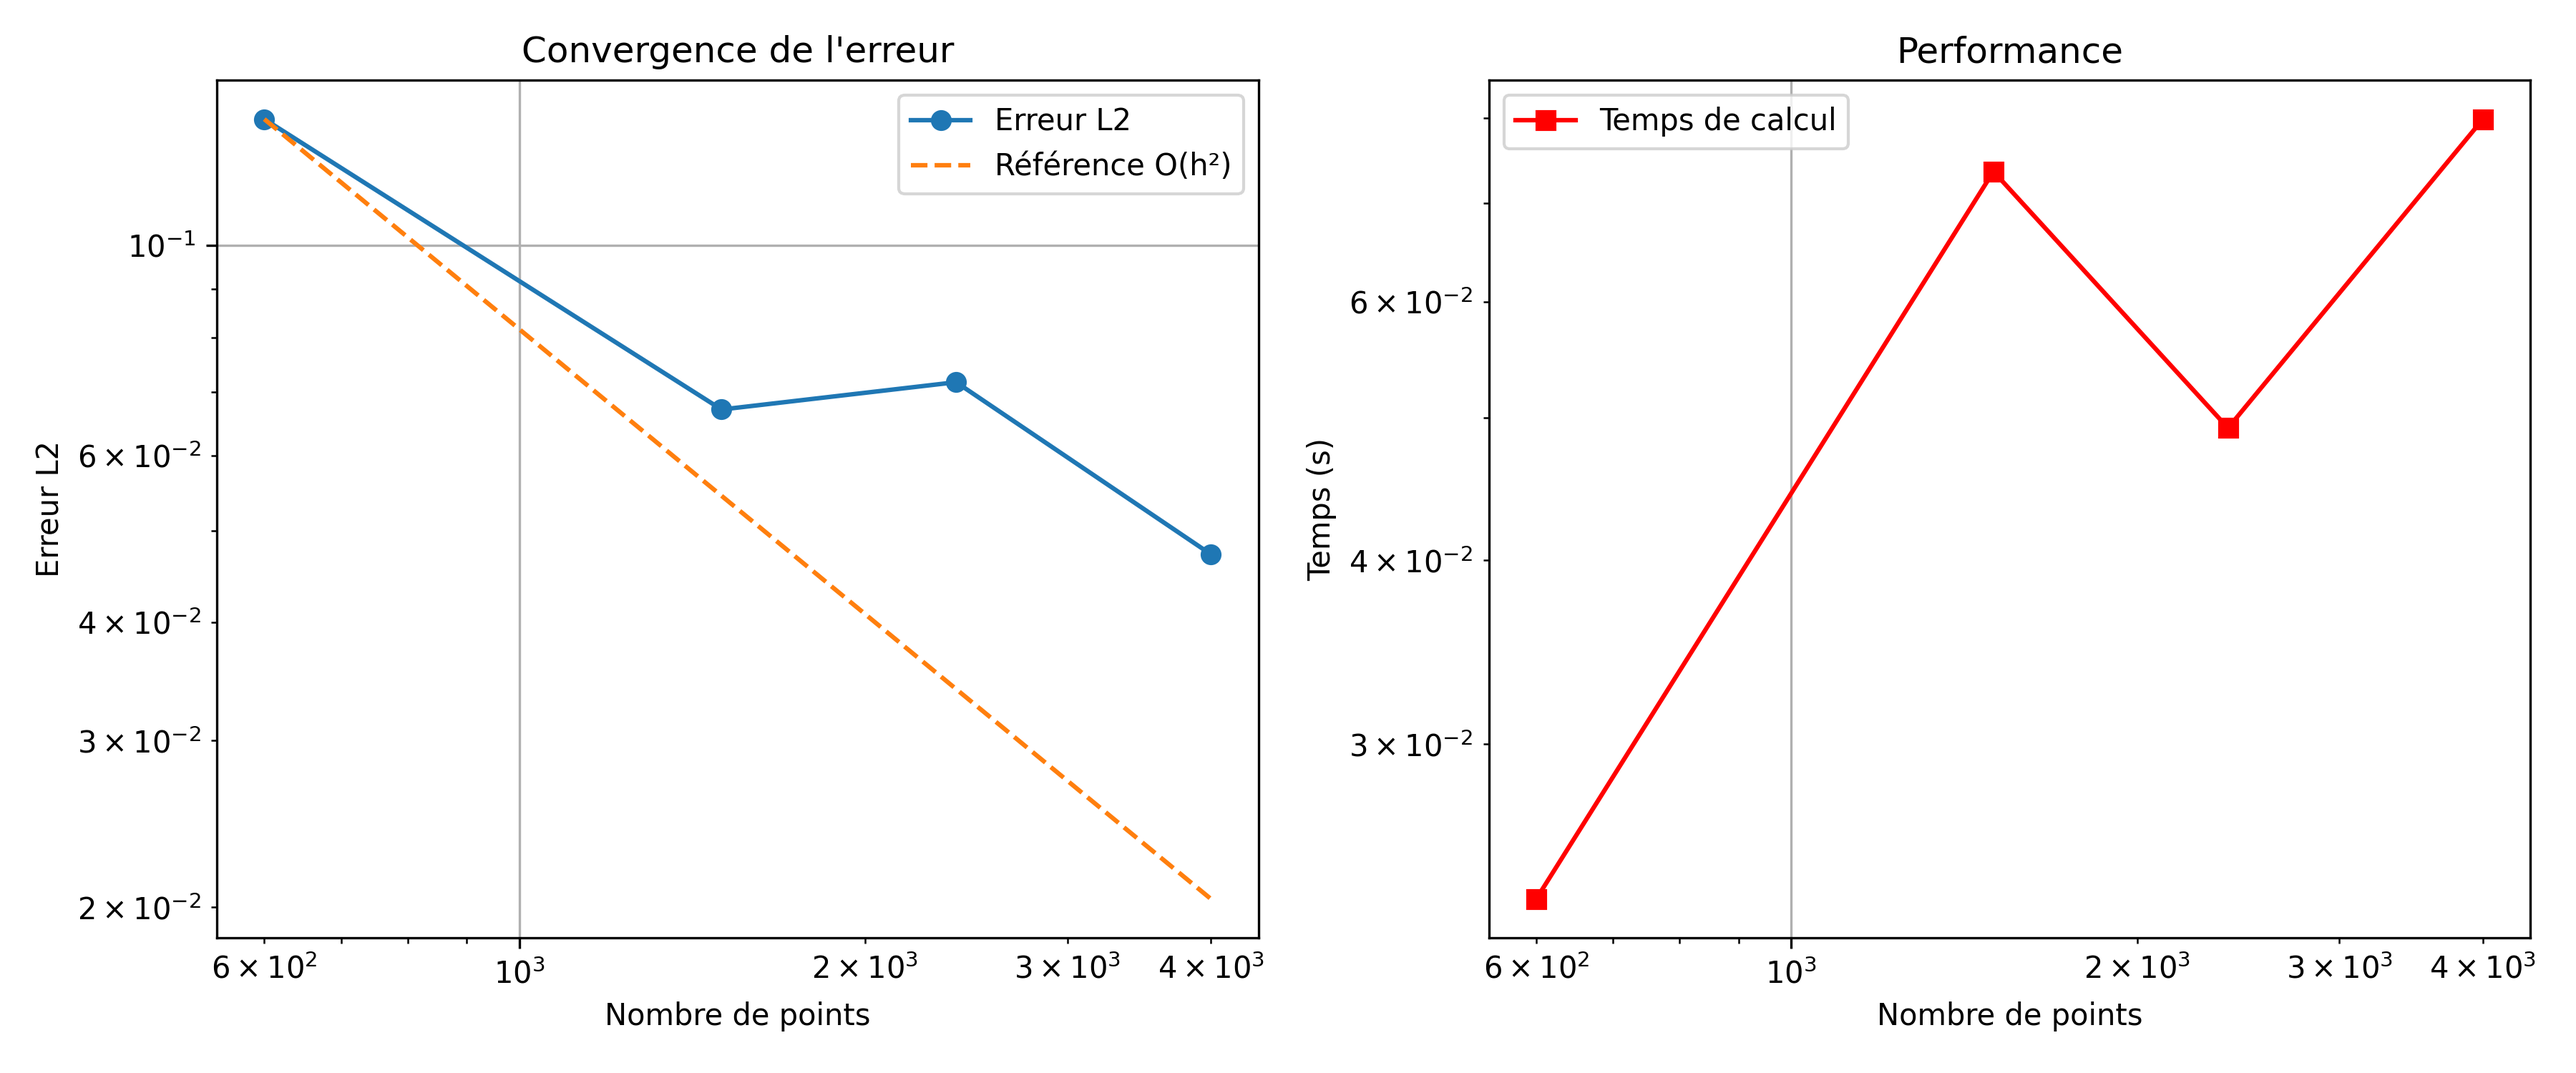
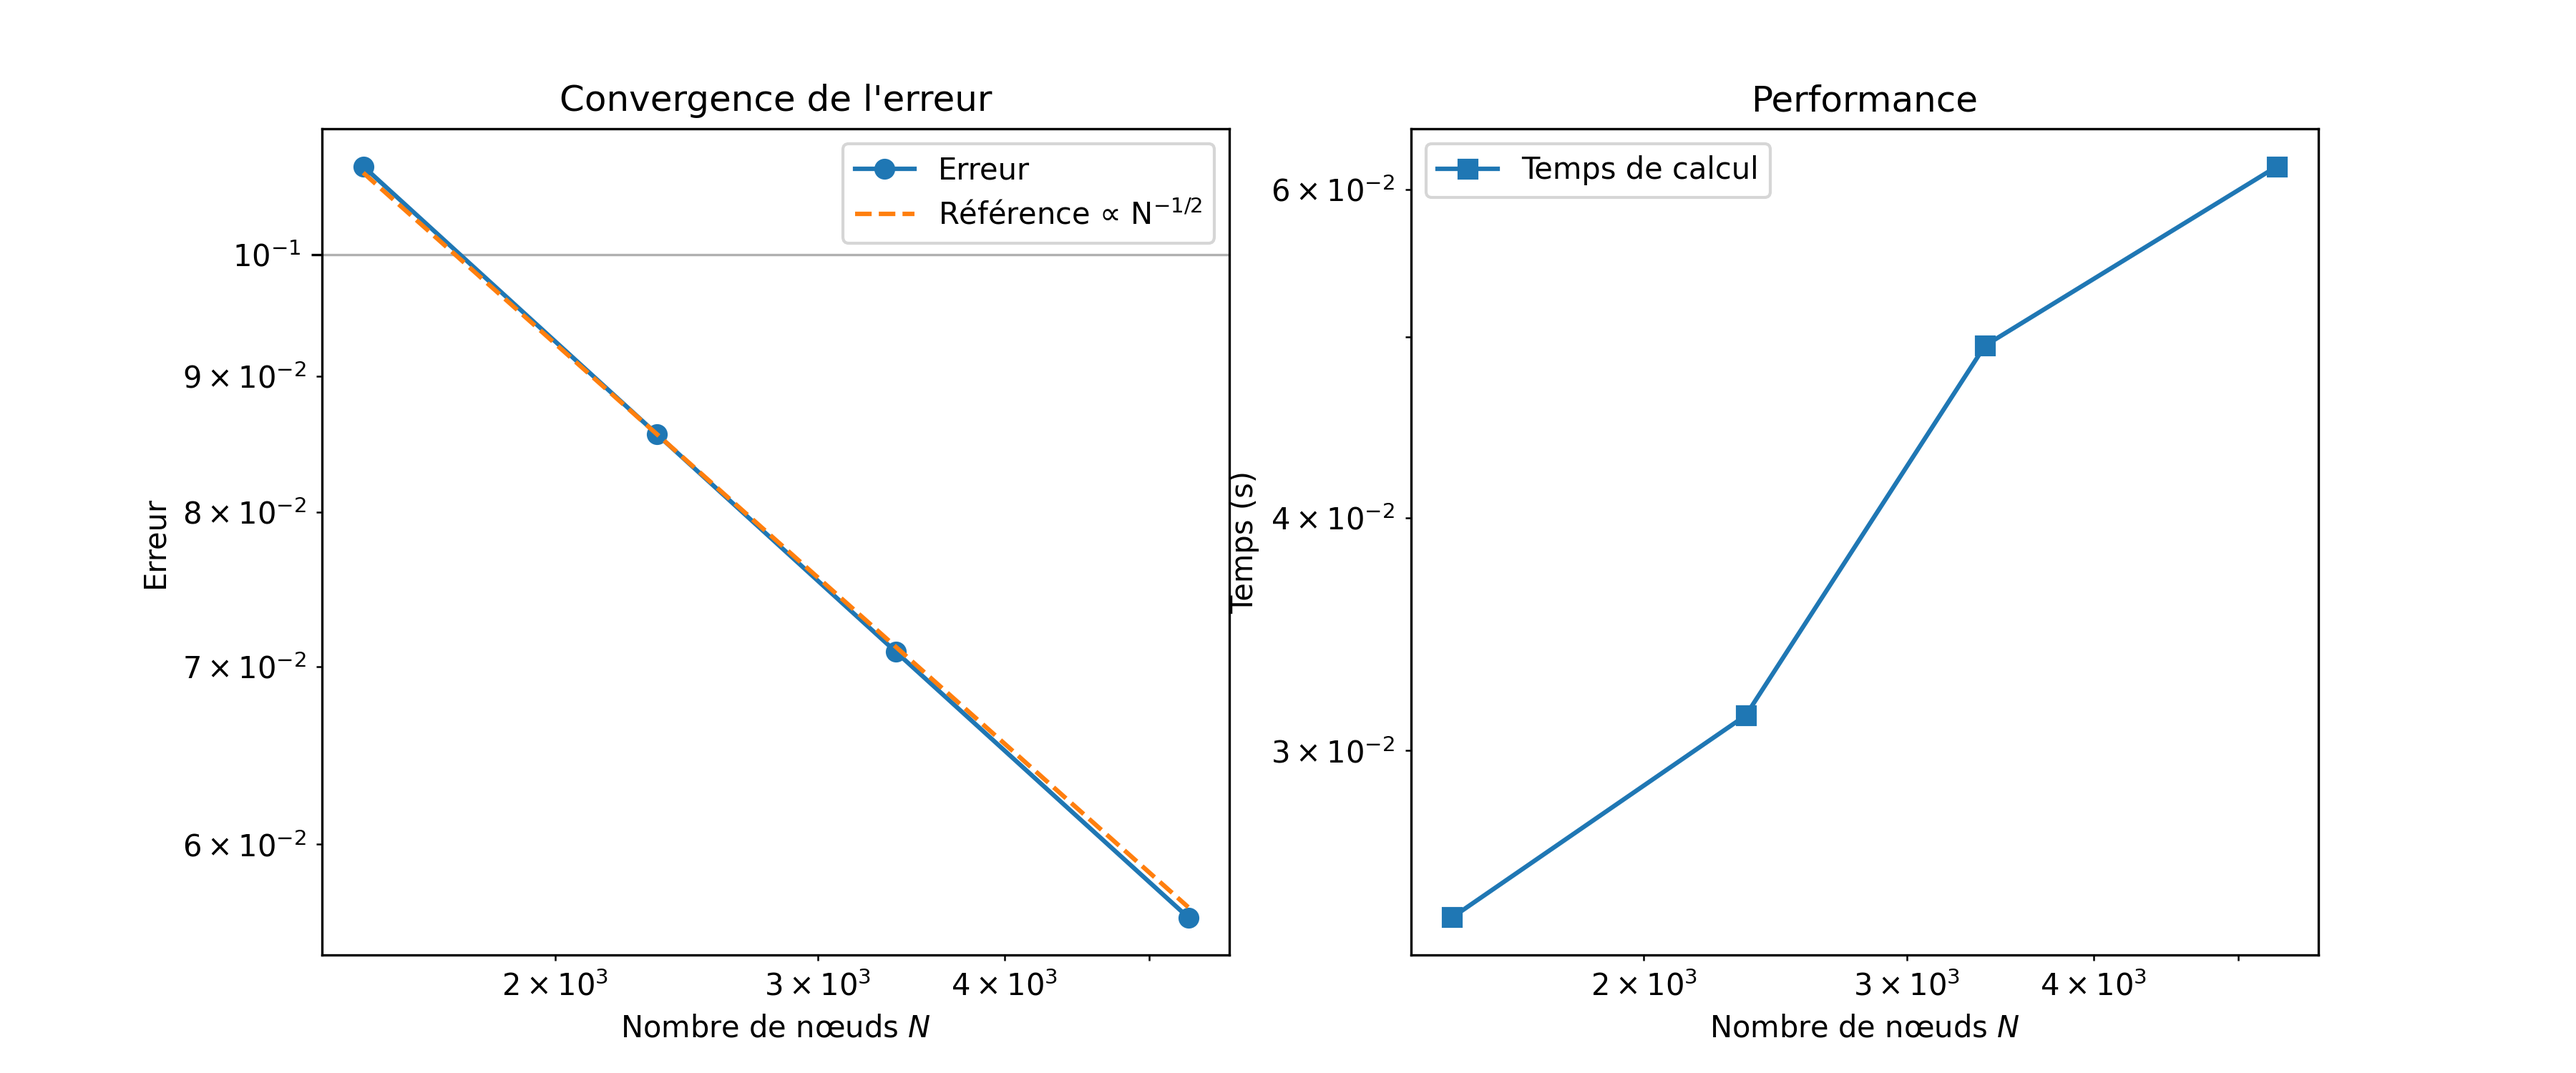
Updated Ananlyse et tracer convergence for constant gradient and minimal performance

diff --git a/cylinder_flow.py b/cylinder_flow.py
@@ -1,5 +1,6 @@
 import numpy as np
 import matplotlib.pyplot as plt
+from matplotlib.ticker import LogFormatter
 from scipy.sparse import lil_matrix
 from scipy.sparse.linalg import spsolve
 from time import time
@@ -22,7 +23,6 @@ def creer_maillage(R, R_ext, nr, ntheta):
     dr = r[1] - r[0]
     dtheta = theta[1] - theta[0]
     return r, theta, dr, dtheta
-
 
 
 def obtenir_indice(i, j, ntheta):
@@ -76,7 +76,6 @@ def resoudre_laplace(A, b, nr, ntheta):
     return psi_aplati.reshape((nr, ntheta))
 
 
-
 def calculer_vitesses(psi, r, theta, dr, dtheta):
     """
     Calcul le champ de vitesse à partir réponse de 'resoudre_laplace()'
@@ -109,7 +108,6 @@ def calculer_vitesses(psi, r, theta, dr, dtheta):
     return vr, vtheta, u, v
 
 
-
 def solution_analytique(U_inf, r, theta, R):
     """
     Calcul la solution analytique du probleme.
@@ -119,7 +117,6 @@ def solution_analytique(U_inf, r, theta, R):
         for j in range(len(theta)):
             psi_exact[i, j] = U_inf * r[i] * np.sin(theta[j]) * (1 - R**2 / r[i]**2)
     return psi_exact
-
 
 
 def erreur_L2(psi, psi_exact):
@@ -185,59 +182,77 @@ def tracer_champ_vitesse(u, v, r, theta, R, saut=2):
     plt.savefig("Figures/Tracee champs de vitesse.png", dpi=300)
     plt.show()
 
-def analyse_convergence(maillages, U_inf=10, R=3, R_ext=10):
-    """
-    Analyse la convergencee, évolution erreur L2 selon le rafinement du maillage, et temps de calcul
-    """
-    erreurs = []
-    temps = []
-    nb_points = []
 
-    for nr, ntheta in maillages:
-        print(f"\n=== Maillage {nr} x {ntheta} ===")
+def seq_maillages(R=3, R_ext=10, k=1.0, nr_list=(24,30,36,45)):
+    tailles = []
+    for nr in nr_list:
+        dr = (R_ext - R)/(nr - 1)
+        ntheta = int(round((2*np.pi*R)/(k*dr)))  # isotropie: R dθ ≈ k·dr
+        tailles.append((nr, ntheta))
+    return tailles
+
+
+def analyse_convergence(tailles_maillage, U_inf, R, R_ext):
+    """
+    Calcule nb_points, erreurs et temps pour chaque maillage.
+    """
+
+    L = len(tailles_maillage)
+    nb_points = np.zeros(L, dtype=int)
+    erreurs   = np.zeros(L, dtype=float)
+    temps     = np.zeros(L, dtype=float)
+
+    for i, couple in enumerate(tailles_maillage):
+        nr, ntheta = int(couple[0]), int(couple[1])
+
+        # --- Maillage
         r, theta, dr, dtheta = creer_maillage(R, R_ext, nr, ntheta)
 
-        debut = time()
+        # --- Assemblage + résolution (temps mesuré)
+        t0 = time()
         A, b = construire_matrice_systeme(r, theta, dr, dtheta, U_inf, R, R_ext)
         psi = resoudre_laplace(A, b, nr, ntheta)
-        vr, vtheta, u, v = calculer_vitesses(psi, r, theta, dr, dtheta)
-        duree = time() - debut
+        temps[i] = time() - t0
 
-        psi_exact = solution_analytique(U_inf, r, theta, R)
-        erreur = erreur_L2(psi, psi_exact)
+        # --- Référence + erreur
+        psi_ref = solution_analytique(U_inf, r, theta, R)
+        erreurs[i]   = np.sqrt(np.sum((psi - psi_ref)**2))   # √Σ e^2
+        nb_points[i] = nr * ntheta
 
-        erreurs.append(erreur)
-        temps.append(duree)
-        nb_points.append(nr * ntheta)
+#       print(f"Erreur L2 : {erreur:.2e} | Temps : {duree:.2f}s")
 
-        print(f"Erreur L2 : {erreur:.2e} | Temps : {duree:.2f}s")
 
-    return np.array(nb_points), np.array(erreurs), np.array(temps)
-
+    return nb_points, erreurs, temps
 
 
 def tracer_convergence(nb_points, erreurs, temps):
+    """
+    Trace (1) erreur vs nb_points avec référence ∝ N^{-1/2}
+          (2) temps de calcul vs nb_points (courbe de performance).
+    """
+    # Référence ~ N^{-1/2}, ancrée au 2e point si possible (sinon au 1er)
+    j = 1 if len(erreurs) >= 2 else 0
+    ref = erreurs[j] * (nb_points / nb_points[j])**(-0.5)
+
     fig, (ax1, ax2) = plt.subplots(1, 2, figsize=(12, 5))
 
-    # Erreur L2 vs nombre de points
-    ax1.loglog(nb_points, erreurs, 'o-', label='Erreur L2')
-    h = 1 / np.sqrt(nb_points)
-    ax1.loglog(nb_points, erreurs[0] * (h / h[0])**2, '--', label='Référence O(h²)')
+    # Erreur
+    ax1.loglog(nb_points, erreurs, 'o-', label='Erreur')
+    ax1.loglog(nb_points, ref, '--', label='Référence ∝ N$^{-1/2}$')
+    ax1.set_xlabel('Nombre de nœuds $N$')
+    ax1.set_ylabel('Erreur')
     ax1.set_title("Convergence de l'erreur")
-    ax1.set_xlabel("Nombre de points")
-    ax1.set_ylabel("Erreur L2")
-    ax1.legend()
     ax1.grid(True)
+    ax1.legend()
 
-    # Temps vs nombre de points
-    ax2.loglog(nb_points, temps, 's-r', label='Temps de calcul')
-    ax2.set_title("Performance")
-    ax2.set_xlabel("Nombre de points")
-    ax2.set_ylabel("Temps (s)")
-    ax2.legend()
+    # Performance
+    ax2.loglog(nb_points, temps, 's-', label='Temps de calcul')
+    ax2.set_xlabel('Nombre de nœuds $N$')
+    ax2.set_ylabel('Temps (s)')
+    ax2.set_title('Performance')
     ax2.grid(True)
+    ax2.legend()
 
-    plt.tight_layout()
     plt.savefig("Figures/Evolution convergence et performance vs nombre point.png", dpi=300)
+    plt.tight_layout()
     plt.show()
-

diff --git a/main.py b/main.py
@@ -9,9 +9,11 @@ from cylinder_flow import (
     tracer_lignes_courant,
     tracer_champ_vitesse,
     analyse_convergence,
-    tracer_convergence
+    tracer_convergence,
+    seq_maillages
 )
-# changer pr import toute les fonctions auto avec *
+import numpy as np
+
 if __name__ == "__main__":
     # Paramètres du problème donnés
     U_inf = 10
@@ -24,6 +26,7 @@ if __name__ == "__main__":
     A, b = construire_matrice_systeme(r, theta, dr, dtheta, U_inf, R, R_ext)
     psi = resoudre_laplace(A, b, len(r), len(theta))
     vr, vtheta, u, v = calculer_vitesses(psi, r, theta, dr, dtheta)
+
     # Vérification avec la solution exacte
     psi_exact = solution_analytique(U_inf, r, theta, R)
     erreur = erreur_L2(psi, psi_exact)
@@ -38,6 +41,9 @@ if __name__ == "__main__":
 
     #Résulatt de la convergence
     print("\n=== Analyse de convergence ===")
-    tailles_maillage = [(20, 30), (30, 50), (40, 60), (50, 80)]
+    tailles_maillage = seq_maillages()  # utilise k=1.0 par défaut
+    print(tailles_maillage)
     nb_points, erreurs, temps = analyse_convergence(tailles_maillage, U_inf, R, R_ext) #calcul L2, temps total, nombre de points
+    eoc = np.log(erreurs[1:] / erreurs[:-1]) / np.log(nb_points[1:] / nb_points[:-1])
+    print("EOC attendu ≈ -0.50 :", eoc)
     tracer_convergence(nb_points, erreurs, temps)
